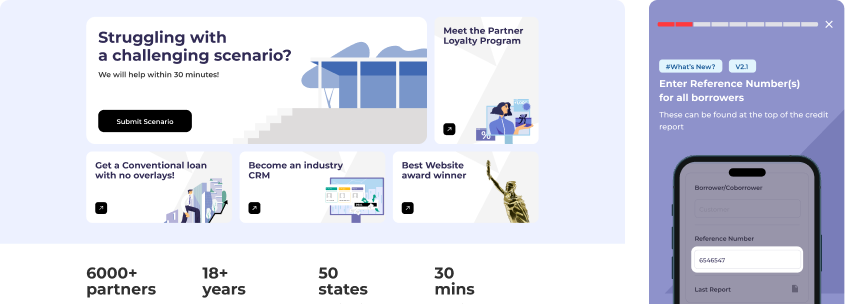
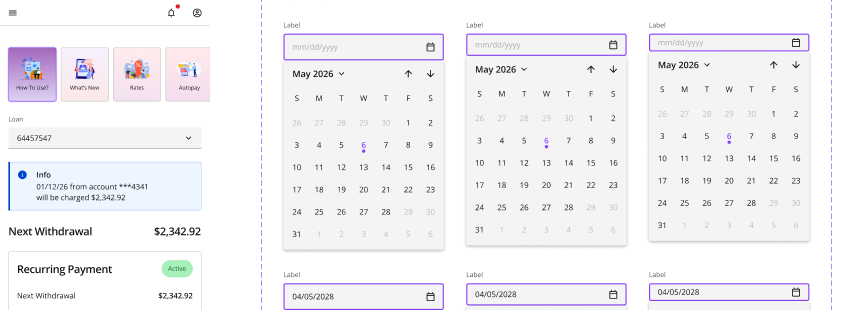
push actual changes 3

diff --git a/it-contact.html b/it-contact.html
@@ -25,7 +25,7 @@
                         </svg>
 
                         <div class="dropdown">
-                            <a href="#" class="xs active">ИТ Контакт</a>
+                            <a href="it-contact.html" class="xs active">ИТ Контакт</a>
                             <a href="vtb.html" class="xs">ВТБ</a>
                             <a href="rosbank.html" class="xs">РОСБАНК</a>
                             <a href="health.html" class="xs">ЗДОРОВЬЕ.РУ</a>
@@ -67,14 +67,89 @@
                     <li>Портал для ипотечных брокеров</li>
                     <li>Chat Bot - чат бот с искусственным интеллектом</li>
                     <li>Loyalty Program</li>
-                    <li>B2C Портал для заёмщиков (с нуля)</li>
-                    <li>Дизайн система (с нуля)</li>
+                    <li>B2C Портал для заёмщиков</li>
+                    <li>Дизайн система</li>
                     <li>Внешний лендер сайт</li>
                     <li>Ипотечный калькулятор</li>
                     <li>CRM</li>
                     <li>Внутренний сервис для работы с документами</li>
                     <li>HR-brand</li>
                 </ul>
+            </div>
+        </div>
+
+        <div class="card accordion active">
+            <div class="accordion__title">
+                <h3 class="l">Design System</h3>
+                <svg class="accordion__title--arrow" width="24" height="24" viewBox="0 0 24 24" fill="none"
+                     xmlns="http://www.w3.org/2000/svg">
+                    <path d="M18.5996 9L12.5996 15L6.59961 9" stroke="#FF3B30" stroke-width="1.88494" />
+                </svg>
+            </div>
+            <div class="accordion__content">
+                <div class="accordion__item mb20">
+                    <p class="s medium mb12">Проблемы до внедрения:</p>
+                    <ul class="company-grant__list mb20">
+                        <li>Децентрализованный подход к дизайну привел к критическим различиям в продуктах, что негативно сказывалось на восприятии бренда.</li>
+                        <li>Низкий Velocity: команда тратила ресурсы на отрисовку и верстку повторяющихся элементов с нуля.</li>
+                        <li>Сложный онбординг из-за отсутствия единого источника правды, в результате - затруднение входа новых сотрудников и накопление дизайн-долга.</li>
+                    </ul>
+                    <p class="s medium mb12">Решения:</p>
+                    <ul class="company-grant__list mb20">
+                        <li>Спроектировал и внедрил единую дизайн-систему, включающую библиотеку компонентов, UX-паттерны и гайдлайны.</li>
+                        <li>Описал логику поведения элементов, состояний и правила использования компонентов для синхронизации работы дизайна и фронта.</li>
+                        <li>Перевёл текущие интерфейсные решения на компонентную базу, обеспечив консистентность продуктов.</li>
+                    </ul>
+                    <p class="s medium mb12">Результат:</p>
+                    <ul class="company-grant__list">
+                        <li>Существенное сокращение времени на проектирование и верстку новых экранов благодаря готовым библиотекам.</li>
+                        <li>Визуальное и логическое единство интерфейсов.</li>
+                        <li>Быстрая адаптация интерфейса под новые задачи бизнеса.</li>
+                    </ul>
+
+                    <div class="embla">
+                        <div class="embla__viewport">
+                            <div class="embla__container">
+                                <div class="embla__slide">
+                                    <div class="image__container">
+                                        <div class="tag smooth">checkbox description</div>
+                                        <img width="100%" height="100%" src="design-case-1.png" alt="ДИЗАЙН-СИСТЕМА">
+                                    </div>
+                                </div>
+                                <div class="embla__slide">
+                                    <div class="image__container">
+                                        <div class="tag smooth">date-picker component</div>
+                                        <img width="100%" height="100%" src="design-case-2.png" alt="ДИЗАЙН-СИСТЕМА">
+                                    </div>
+                                </div>
+                                <div class="embla__slide">
+                                    <div class="image__container">
+                                        <div class="tag smooth">checkbox description</div>
+                                        <img width="100%" height="100%" src="design-case-1.png" alt="ДИЗАЙН-СИСТЕМА">
+                                    </div>
+                                </div>
+                            </div>
+                            <div class="embla__buttons">
+                                <div class="embla__prev button">
+                                    <svg width="30" height="30" viewBox="0 0 30 30" fill="none" xmlns="http://www.w3.org/2000/svg">
+                                        <rect x="30" y="30" width="30" height="30" rx="7" transform="rotate(180 30 30)" fill="black" fill-opacity="0.13"/>
+                                        <path d="M7.74404 14.4107C7.4186 14.7362 7.4186 15.2638 7.74404 15.5893L13.0473 20.8926C13.3728 21.218 13.9004 21.218 14.2258 20.8926C14.5513 20.5671 14.5513 20.0395 14.2258 19.714L9.51181 15L14.2258 10.286C14.5513 9.96052 14.5513 9.43288 14.2258 9.10744C13.9004 8.78201 13.3728 8.78201 13.0473 9.10744L7.74404 14.4107ZM21.6666 15V14.1667H8.33329V15V15.8333H21.6666V15Z" fill="#505050"/>
+                                    </svg>
+                                </div>
+                                <div class="embla__next button">
+                                    <svg width="30" height="30" viewBox="0 0 30 30" fill="none" xmlns="http://www.w3.org/2000/svg">
+                                        <rect width="30" height="30" rx="7" fill="black" fill-opacity="0.13"/>
+                                        <path d="M22.256 15.5893C22.5814 15.2638 22.5814 14.7362 22.256 14.4107L16.9527 9.10744C16.6272 8.78201 16.0996 8.78201 15.7742 9.10744C15.4487 9.43288 15.4487 9.96052 15.7742 10.286L20.4882 15L15.7742 19.714C15.4487 20.0395 15.4487 20.5671 15.7742 20.8926C16.0996 21.218 16.6272 21.218 16.9527 20.8926L22.256 15.5893ZM8.33337 15V15.8333H21.6667V15V14.1667H8.33337V15Z" fill="#505050"/>
+                                    </svg>
+                                </div>
+                            </div>
+                        </div>
+
+
+                    </div>
+                </div>
+
+
             </div>
         </div>
 
@@ -145,55 +220,6 @@
                         </div>
                     </div>
                 </div>
-
-
-            </div>
-        </div>
-
-        <div class="card accordion active">
-            <div class="accordion__title">
-                <div class="accordion__title--with-stats">
-                    <h3 class="l">The User Manual Reformatting</h3>
-                    <div class="stat__container">
-                        <div class="stat">
-                            <svg width="20" height="20" viewBox="0 0 20 20" fill="none" xmlns="http://www.w3.org/2000/svg">
-                                <path d="M17.5 5L11.6667 10.8333L9.16667 8.33333L2.5 15" stroke="white" stroke-width="1.5" stroke-linecap="round" stroke-linejoin="round"/>
-                                <path d="M17.5001 8.33333V5H14.1667" stroke="white" stroke-width="1.5" stroke-linecap="round" stroke-linejoin="round"/>
-                            </svg>
-                            <span>+33% Retention</span>
-                        </div>
-                        <div class="stat">
-                            <svg width="20" height="20" viewBox="0 0 20 20" fill="none" xmlns="http://www.w3.org/2000/svg">
-                                <path d="M17.5 5L11.6667 10.8333L9.16667 8.33333L2.5 15" stroke="white" stroke-width="1.5" stroke-linecap="round" stroke-linejoin="round"/>
-                                <path d="M17.5001 8.33333V5H14.1667" stroke="white" stroke-width="1.5" stroke-linecap="round" stroke-linejoin="round"/>
-                            </svg>
-                            <span>+20% MAU</span>
-                        </div>
-                    </div>
-                </div>
-
-                <svg class="accordion__title--arrow" width="24" height="24" viewBox="0 0 24 24" fill="none"
-                    xmlns="http://www.w3.org/2000/svg">
-                    <path d="M18.5996 9L12.5996 15L6.59961 9" stroke="#FF3B30" stroke-width="1.88494" />
-                </svg>
-            </div>
-            <div class="accordion__content cropped">
-                <div class="accordion__item">
-                    <p class="s medium mb12">Проблемы:</p>
-                    <ul class="company-grant__list mb20">
-                        <li>Большая нагрузка на саппорт</li>
-                        <li>Не вовлечённость пользователей в мануал в PDF-формате</li>
-                    </ul>
-                    <p class="s medium mb12">Решения:</p>
-                    <ul class="company-grant__list mb32">
-                        <li>Внедрил встроенные сторис, адаптированные под контекст действий пользователей</li>
-                    </ul>
-                    <p class="s medium mb12">Результат:</p>
-                    <ul class="company-grant__list mb20">
-                        <li>Возврат пользователей к использованию функции </li>
-                    </ul>
-                    <img width="100%" class="" src="broker-case-2.png" alt="МОБИЛЬНЫЕ ГАЙДЛАЙНЫ ДЛЯ НОВОГО ФУНКЦИОНАЛА">
-                </div>
             </div>
         </div>
 
@@ -256,81 +282,6 @@
                                     </div>
                                 </div>
 
-                            </div>
-                            <div class="embla__buttons">
-                                <div class="embla__prev button">
-                                    <svg width="30" height="30" viewBox="0 0 30 30" fill="none" xmlns="http://www.w3.org/2000/svg">
-                                        <rect x="30" y="30" width="30" height="30" rx="7" transform="rotate(180 30 30)" fill="black" fill-opacity="0.13"/>
-                                        <path d="M7.74404 14.4107C7.4186 14.7362 7.4186 15.2638 7.74404 15.5893L13.0473 20.8926C13.3728 21.218 13.9004 21.218 14.2258 20.8926C14.5513 20.5671 14.5513 20.0395 14.2258 19.714L9.51181 15L14.2258 10.286C14.5513 9.96052 14.5513 9.43288 14.2258 9.10744C13.9004 8.78201 13.3728 8.78201 13.0473 9.10744L7.74404 14.4107ZM21.6666 15V14.1667H8.33329V15V15.8333H21.6666V15Z" fill="#505050"/>
-                                    </svg>
-                                </div>
-                                <div class="embla__next button">
-                                    <svg width="30" height="30" viewBox="0 0 30 30" fill="none" xmlns="http://www.w3.org/2000/svg">
-                                        <rect width="30" height="30" rx="7" fill="black" fill-opacity="0.13"/>
-                                        <path d="M22.256 15.5893C22.5814 15.2638 22.5814 14.7362 22.256 14.4107L16.9527 9.10744C16.6272 8.78201 16.0996 8.78201 15.7742 9.10744C15.4487 9.43288 15.4487 9.96052 15.7742 10.286L20.4882 15L15.7742 19.714C15.4487 20.0395 15.4487 20.5671 15.7742 20.8926C16.0996 21.218 16.6272 21.218 16.9527 20.8926L22.256 15.5893ZM8.33337 15V15.8333H21.6667V15V14.1667H8.33337V15Z" fill="#505050"/>
-                                    </svg>
-                                </div>
-                            </div>
-                        </div>
-
-
-                    </div>
-                </div>
-
-
-            </div>
-        </div>
-
-        <div class="card accordion active">
-            <div class="accordion__title">
-                <h3 class="l">Design System</h3>
-                <svg class="accordion__title--arrow" width="24" height="24" viewBox="0 0 24 24" fill="none"
-                    xmlns="http://www.w3.org/2000/svg">
-                    <path d="M18.5996 9L12.5996 15L6.59961 9" stroke="#FF3B30" stroke-width="1.88494" />
-                </svg>
-            </div>
-            <div class="accordion__content">
-                <div class="accordion__item mb20">
-                    <p class="s medium mb12">Проблемы до внедрения:</p>
-                    <ul class="company-grant__list mb20">
-                        <li>Децентрализованный подход к дизайну привел к критическим различиям в продуктах, что негативно сказывалось на восприятии бренда.</li>
-                        <li>Низкий Velocity: команда тратила ресурсы на отрисовку и верстку повторяющихся элементов с нуля.</li>
-                        <li>Сложный онбординг из-за отсутствия единого источника правды, в результате - затруднение входа новых сотрудников и накопление дизайн-долга.</li>
-                    </ul>
-                    <p class="s medium mb12">Решения:</p>
-                    <ul class="company-grant__list mb20">
-                        <li>Спроектировал и внедрил единую дизайн-систему, включающую библиотеку компонентов, UX-паттерны и гайдлайны.</li>
-                        <li>Описал логику поведения элементов, состояний и правила использования компонентов для синхронизации работы дизайна и фронта.</li>
-                        <li>Перевёл текущие интерфейсные решения на компонентную базу, обеспечив консистентность продуктов.</li>
-                    </ul>
-                    <p class="s medium mb12">Результат:</p>
-                    <ul class="company-grant__list">
-                        <li>Существенное сокращение времени на проектирование и верстку новых экранов благодаря готовым библиотекам.</li>
-                        <li>Визуальное и логическое единство интерфейсов.</li>
-                        <li>Быстрая адаптация интерфейса под новые задачи бизнеса.</li>
-                    </ul>
-
-                    <div class="embla">
-                        <div class="embla__viewport">
-                            <div class="embla__container">
-                                <div class="embla__slide">
-                                    <div class="image__container">
-                                        <div class="tag smooth">checkbox description</div>
-                                        <img width="100%" height="100%" src="design-case-1.png" alt="ДИЗАЙН-СИСТЕМА">
-                                    </div>
-                                </div>
-                                <div class="embla__slide">
-                                    <div class="image__container">
-                                        <div class="tag smooth">date-picker component</div>
-                                        <img width="100%" height="100%" src="design-case-2.png" alt="ДИЗАЙН-СИСТЕМА">
-                                    </div>
-                                </div>
-                                <div class="embla__slide">
-                                    <div class="image__container">
-                                        <div class="tag smooth">checkbox description</div>
-                                        <img width="100%" height="100%" src="design-case-1.png" alt="ДИЗАЙН-СИСТЕМА">
-                                    </div>
-                                </div>
                             </div>
                             <div class="embla__buttons">
                                 <div class="embla__prev button">

diff --git a/health.html b/health.html
@@ -25,7 +25,7 @@
                         </svg>
 
                         <div class="dropdown">
-                            <a href="#" class="xs">ИТ Контакт</a>
+                            <a href="it-contact.html" class="xs">ИТ Контакт</a>
                             <a href="vtb.html" class="xs ">ВТБ</a>
                             <a href="rosbank.html" class="xs">РОСБАНК</a>
                             <a href="health.html" class="xs active">ЗДОРОВЬЕ.РУ</a>
@@ -133,7 +133,7 @@
         <h4 class="xxl other-case">Другие кейсы</h4>
         <div class="other-case__container">
 
-            <a href="#" class="other-case__item">
+            <a href="it-contact.html" class="other-case__item">
                 <div class="other-case__card card">
                     <div class="other-case__title">
                         <svg width="110" height="23" viewBox="0 0 110 23" fill="none"

diff --git a/rosbank.html b/rosbank.html
@@ -136,7 +136,7 @@
         <h4 class="xxl other-case">Другие кейсы</h4>
         <div class="other-case__container">
 
-            <a href="#" class="other-case__item">
+            <a href="it-contact.html" class="other-case__item">
                 <div class="other-case__card card">
                     <div class="other-case__title">
                         <svg width="110" height="23" viewBox="0 0 110 23" fill="none"

diff --git a/vtb.html b/vtb.html
@@ -130,7 +130,7 @@
         <h4 class="xxl other-case">Другие кейсы</h4>
         <div class="other-case__container">
 
-            <a href="#" class="other-case__item">
+            <a href="it-contact.html" class="other-case__item">
                 <div class="other-case__card card">
                     <div class="other-case__title">
                         <svg width="110" height="23" viewBox="0 0 110 23" fill="none"